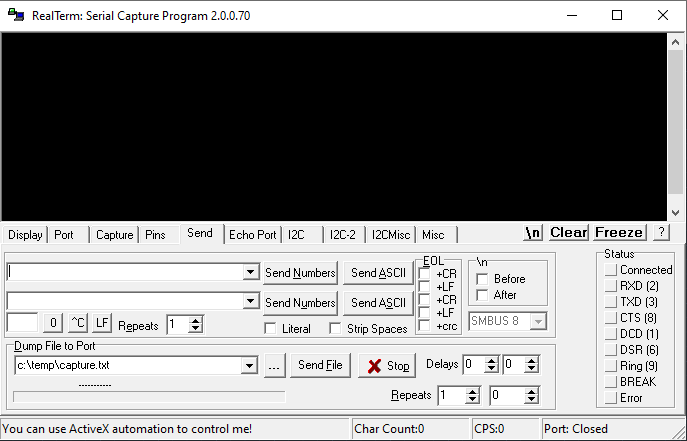
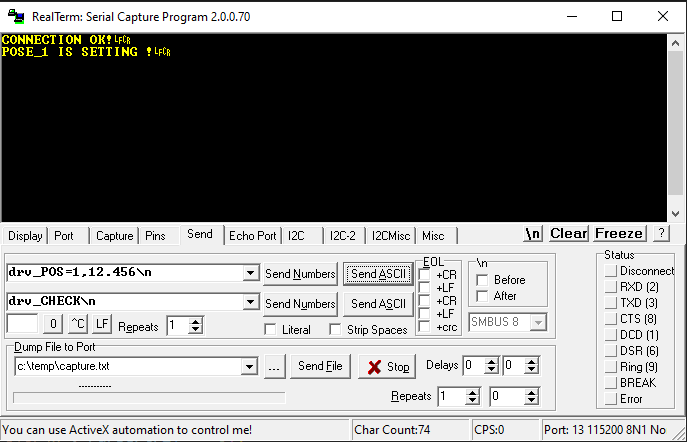
parse data first attempt

diff --git a/blink/parse.c b/blink/parse.c
@@ -1,14 +1,154 @@
 
 #include <stdio.h>
+#include <stdlib.h>
+#include <string.h>
 #include "pico/stdlib.h"
 #include "hardware/timer.h"
 #include "hardware/irq.h"
 
+#include "uart.h"
+#include "circ_buffer.h"  //TODO: wywalic !!!!!!!!!
 #include "parse.h"
 
-void ParseData(void) 
-{ 
-    
+char message[32];
 
+PARSE_ERRORS ParseData(CIRC_BUFF *circ_buf) 
+{ 
+    char rcv_data;
+    char tab[32] = {0};
+    char value[32] = {' '};
+    uint inx = 0; 
+    int size = 0;
+    float val =0;
+    do{ 
+        int ex = CircBufferGet(circ_buf, &rcv_data);
+        tab[inx] = rcv_data;
+        inx++; 
+    }while( rcv_data != '\n' ); 
+
+    if(inx > 32)
+    {
+        // string is too long
+        UartPuts("E01\n\r");
+        return E01;
+    }
+    else 
+    { 
+        char *ParsePtr = strtok(tab, "_");
+        if(!(strcmp("drv", ParsePtr) == 0))
+        { 
+            // header is bad
+            UartPuts("E02\n\r");
+            return E02;
+        }
+        else
+        {   
+            // simplest sort -> sort by white list
+            char *ParsePtr2 = strtok(NULL, "=");
+            // sprintf(message, "%s\n\r", ParsePtr2);
+            // UartPuts(message);
+
+            if((strcmp("POS", ParsePtr2) == 0) || (strcmp("VEL", ParsePtr2) == 0 ))
+            { 
+                char *ParsePtr3 = strtok(NULL, ",");
+
+                if(strcmp("1", ParsePtr3) == 0)
+                { 
+                    char *ParsePtr4 = strtok(NULL, "\n");
+                    val = atof(ParsePtr4);
+                    
+                    if(strcmp("POS", ParsePtr2) == 0)
+                    {
+                        // set pose TODO:
+                        UartPuts("POSE_1 IS SETTING !\n\r");
+                    }
+                    else if(strcmp("VEL", ParsePtr2) == 0)                   
+                    {
+                        // set velocity TODO:
+                        UartPuts("VELOCITY_1 IS SETTING !\n\r");
+                    }
+
+                    return EOK;
+
+                }
+                else if(strcmp("2", ParsePtr3) == 0)
+                { 
+                    char *ParsePtr4 = strtok(NULL, "\n");
+                    val = atof(ParsePtr4);
+
+                    if(strcmp("POS", ParsePtr2) == 0)
+                    {
+                        // set pose TODO:
+                        UartPuts("POSE_2 IS SETTING !\n\r");
+                    }
+                    else if(strcmp("VEL", ParsePtr2) == 0)                   
+                    {
+                        // set velocity TODO:
+                        UartPuts("VELOCITY_2 IS SETTING !\n\r");
+                    }
+
+                    return EOK;
+                } 
+                else 
+                { 
+                    return E03;
+                    UartPuts("E03\n\r");
+                }
+
+            }
+
+            // SIMPLE COMMANDS <-> BOTH DRIVERS  -------------------------------------->  
+            else if(strcmp("CHECK\n", ParsePtr2) == 0)
+            { 
+                // set check OK 
+                UartPuts("CONNECTION OK!\n\r");
+                return EOK;
+            }
+            else if((strcmp("ENABLE\n", ParsePtr2) == 0))
+            { 
+                // turn on drivers 
+                UartPuts("DRIVERS ENABLE!\n\r");
+                return EOK;
+            }
+            else if((strcmp("DISABLE\n", ParsePtr2) == 0))
+            { 
+                // turn off drivers 
+                UartPuts("DRIVERS DISABLE!\n\r");
+                return EOK;
+            }
+            else if((strcmp("RUN\n", ParsePtr2) == 0))
+            { 
+                UartPuts("SETTING STATE -> RUN\n\r");
+                return EOK;
+            }
+            else if((strcmp("STOP\n", ParsePtr2) == 0))
+            { 
+                UartPuts("SETTING STATE -> STOP\n\r");
+                return EOK;
+            }
+            else if((strcmp("SAFETY_STOP\n", ParsePtr2) == 0))
+            { 
+               UartPuts("SETTING STATE -> SAFETY_STOP\n\r");
+               UartPuts("TURN OFF DRIVES -> GO RESET -> AND REBOOT DEVICE !!!\n\r");
+               return EOK;
+            }
+            else if((strcmp("FSTOP\n", ParsePtr2) == 0))
+            { 
+               UartPuts("SETTING DIVISION STEP -> FULLSTEP\n\r");
+               return EOK;
+            }
+            else if((strcmp("HSTOP\n", ParsePtr2) == 0))
+            { 
+               UartPuts("SETTING DIVISION STEP -> HALFSTEP\n\r");
+               return EOK;
+            }
+            // BOTH DRIVERS COMMANDS -----------------------------END-----------------> 
+
+            else 
+            { 
+                return E05;
+            }   
+        }
+    } 
 
 }

diff --git a/blink/blink.c b/blink/blink.c
@@ -47,23 +47,25 @@ int main() {
     
     InitTimer(&drive_timer, 50); // time in ms
 
-    InitStepper(&axis_L, 13, 12, 11, 10, 0); 
-    InitStepper(&axis_R, 2, 3, 4, 5, 0); 
+    InitStepper(&axis_L, 10, 11, 12, 13, 0); 
+    InitStepper(&axis_R, 5, 4, 3, 2, 0); 
 
     InitUart();
 
     while (true) 
     {
-        tight_loop_contents();
+        //tight_loop_contents();
     }
 
 }
 
+// Drives Tasks
 void Drives_Tasks(void){ 
     DrivesTask(&axis_L);
     DrivesTask(&axis_R);
 }
 
+//callback from receive UART
 void Load_Buffer(char ch)
 { 
     CircBufferPut(&UartRecBuff, ch);
@@ -71,7 +73,11 @@ void Load_Buffer(char ch)
     // start Parse_data
     if(ch == '\n')
     { 
-        Lazy_Parse_Data();
+        uint error = ParseData(&UartRecBuff);
+        if(error =! EOK){ 
+            //UartPuts("Error:\n\r");
+            //UartPutc(error);
+        }
     }
 }
 

diff --git a/blink/parse.h b/blink/parse.h
@@ -1,12 +1,13 @@
 
 typedef enum
-{ 
-   E01 = 1, 
-   E02, 
-   E03,
+{  
+   EOK = 0,
+   E01,         // too long information 
+   E02,         // bad header "drv_" on front side string  
+   E03,         // bad value for first argument 
    E04,
    E05
 
 }PARSE_ERRORS;
 
-void ParseData(void);
+PARSE_ERRORS ParseData(CIRC_BUFF *circ_buf);
